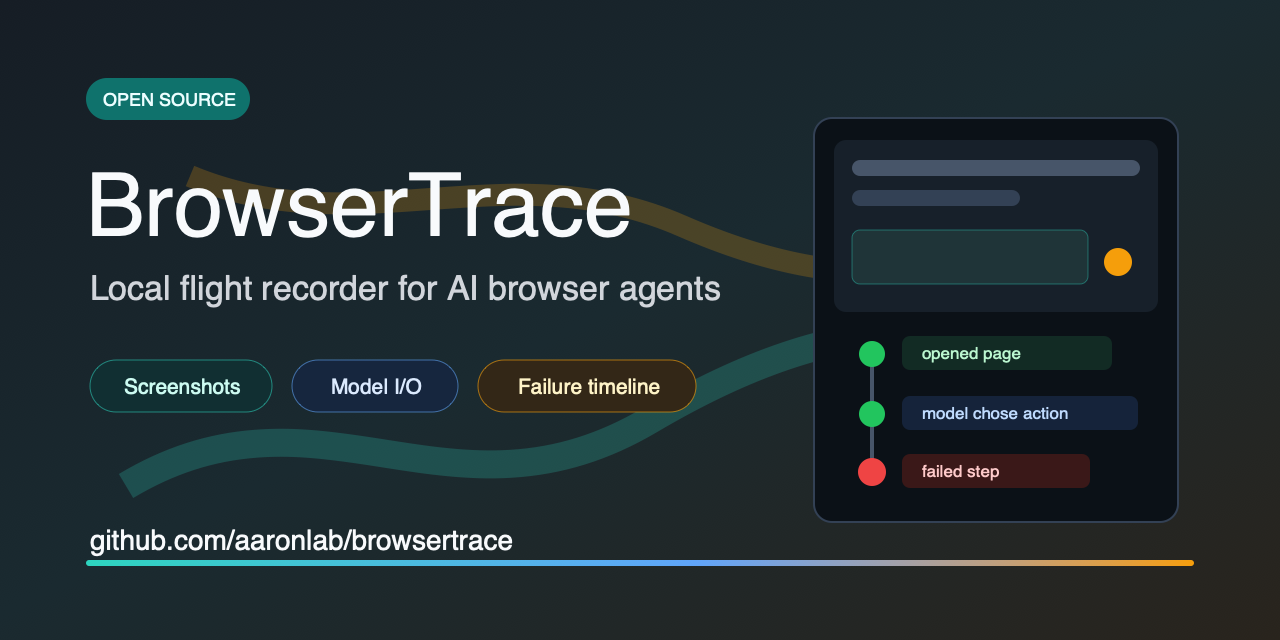
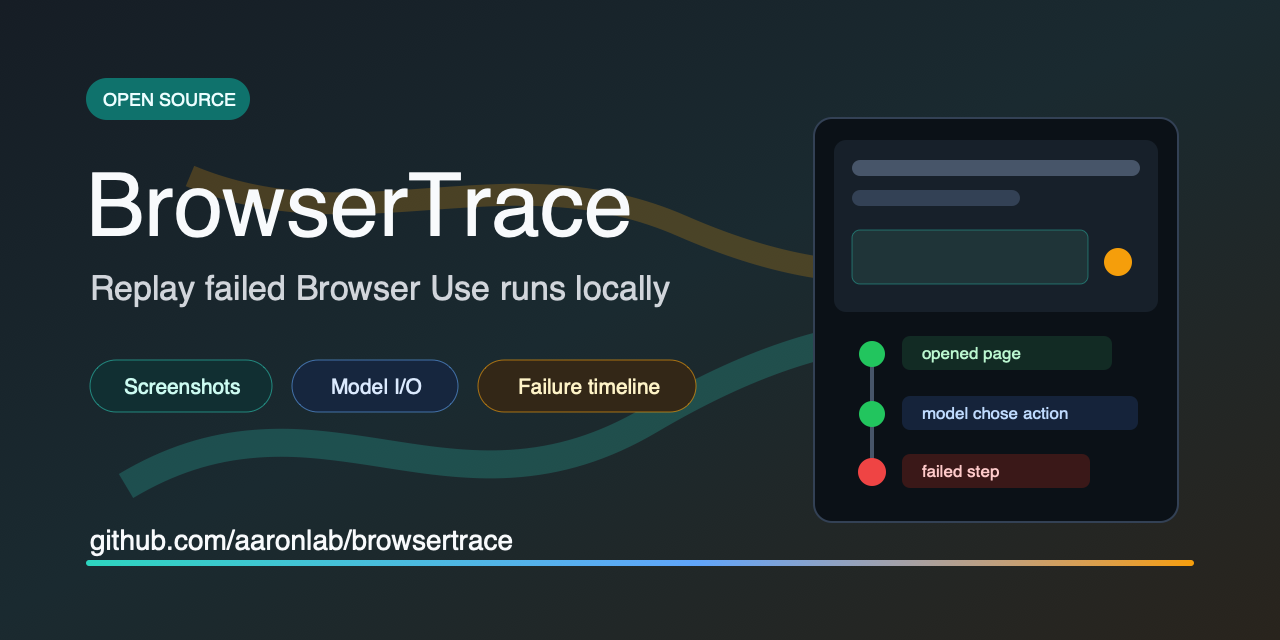
docs: refresh social preview positioning

Changed region(s): [[0.0625, 0.4062, 0.5625, 0.5]]

diff --git a/tests/test_metadata.py b/tests/test_metadata.py
@@ -77,6 +77,16 @@ def test_pyproject_has_launch_discovery_metadata():
     assert urls["Discussions"] == "https://github.com/aaronlab/browsertrace/discussions/6"
 
 
+def test_social_preview_source_uses_browser_use_first_positioning():
+    project_root = Path(__file__).resolve().parents[1]
+    svg = (project_root / "docs" / "social-preview.svg").read_text()
+
+    assert "Local replay debugger for Browser Use failures" in svg
+    assert "Replay failed Browser Use runs locally" in svg
+    assert "Local flight recorder" not in svg
+    assert "AI browser agents" not in svg
+
+
 def test_publish_workflow_is_ready_for_trusted_publishing():
     project_root = Path(__file__).resolve().parents[1]
     workflow = (project_root / ".github" / "workflows" / "publish.yml").read_text()

diff --git a/docs/launch/metrics-log.md b/docs/launch/metrics-log.md
@@ -1059,3 +1059,4 @@ uv run --python 3.11 python scripts/launch_metrics.py --json
 | 2026-05-12T15:50:18+00:00 | 3 | 998 | 21 | 0 | 10 | 0 | 40 | current monitor pass after GitHub repo description switched to Browser Use-first positioning; star goal remains incomplete; traffic views 354/132 unique, clones 16382/2819 unique |
 | 2026-05-12T15:53:38+00:00 | 3 | 998 | 21 | 0 | 10 | 0 | 40 | current monitor pass after pyproject package description switched to Browser Use-first for next release; star goal remains incomplete; traffic views 354/132 unique, clones 16382/2819 unique |
 | 2026-05-12T15:58:17+00:00 | 3 | 998 | 21 | 0 | 10 | 0 | 40 | current monitor pass after directory submission copy switched reusable fields to Browser Use-first; star goal remains incomplete; traffic views 354/132 unique, clones 16382/2819 unique |
+| 2026-05-12T16:01:35+00:00 | 3 | 998 | 21 | 0 | 10 | 0 | 40 | current monitor pass after social preview asset source and PNG switched to Browser Use-first; star goal remains incomplete; traffic views 354/132 unique, clones 16382/2819 unique |

diff --git a/LAUNCH.md b/LAUNCH.md
@@ -120,7 +120,7 @@ Current latest audit:
 
 | Captured at | Stars | To 1001 | Forks | Watchers | Issues | PRs | Release downloads | Note |
 |---|---:|---:|---:|---:|---:|---:|---:|---|
-| 2026-05-12T15:58:17+00:00 | 3 | 998 | 21 | 0 | 10 | 0 | 40 | current monitor pass after directory submission copy switched reusable fields to Browser Use-first; star goal remains incomplete; traffic views 354/132 unique, clones 16382/2819 unique |
+| 2026-05-12T16:01:35+00:00 | 3 | 998 | 21 | 0 | 10 | 0 | 40 | current monitor pass after social preview asset source and PNG switched to Browser Use-first; star goal remains incomplete; traffic views 354/132 unique, clones 16382/2819 unique |
 
 The active objective is incomplete until `stargazerCount > 1000`.
 
